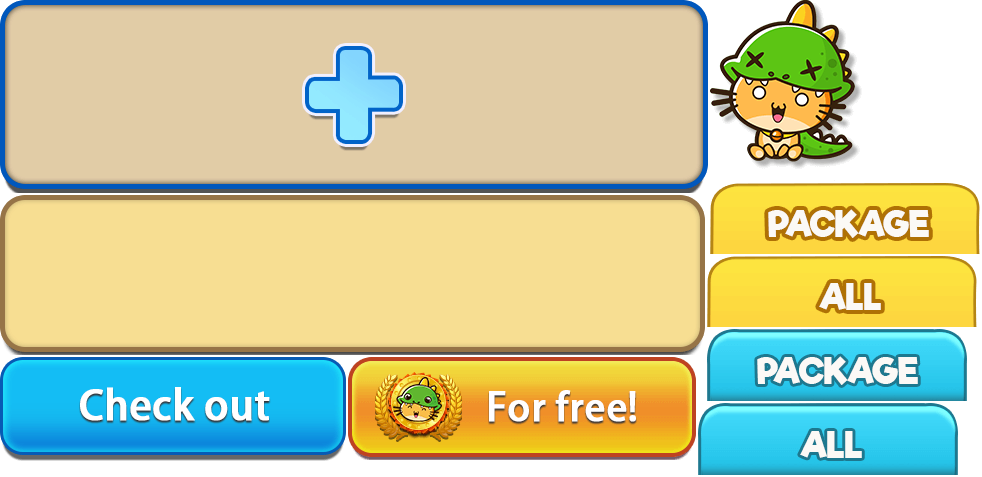
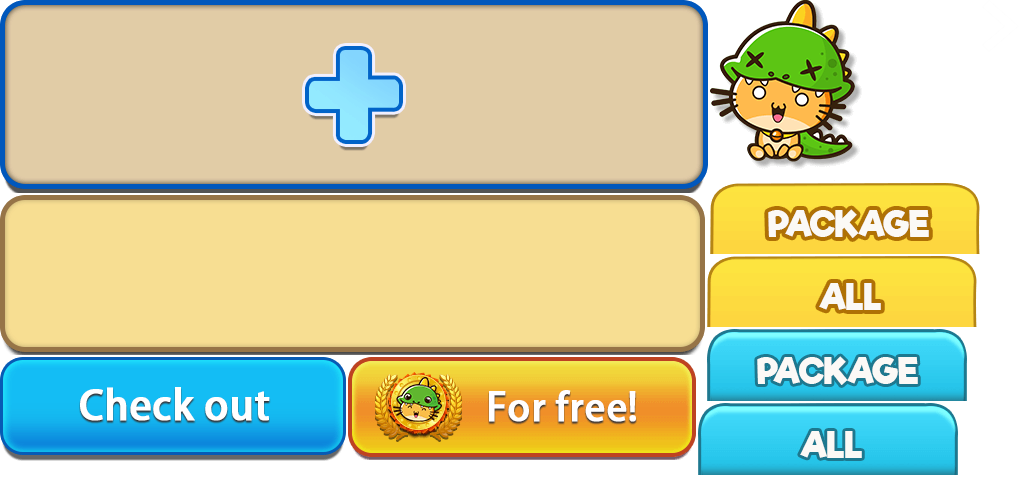
prize

diff --git a/src/pages/prize/prize.component.ts b/src/pages/prize/prize.component.ts
@@ -4,11 +4,11 @@
  * @Author: Wayne Yu
  * @Date: 2021-11-09 16:34:24
  * @LastEditors: Wayne Yu
- * @LastEditTime: 2021-11-09 17:28:57
+ * @LastEditTime: 2021-11-10 10:06:40
  */
 import { Component } from '@angular/core';
 import { BitmapData } from '../../basicUI/basic-ui.module';
-import { MainPage, Trigger, WebPages, Loading, GameHttp, GM } from '../../service/dinomao-game.module';
+import { MainPage, AddressData, UserAddress, Loading, GameHttp, GM, Trigger, WebPages } from '../../service/dinomao-game.module';
 
 @Component({
   selector: 'app-prize',
@@ -21,13 +21,17 @@ export class PrizeComponent extends MainPage {
 
   shocked!: BitmapData;
   addBtn!: BitmapData;
+  addressBtn!: BitmapData;
 
   allPrizeIcon!: BitmapData;
   allPrizeBtn!: BitmapData;
   packageIcon!: BitmapData;
   packageBtn!: BitmapData;
 
+  mainString: string = "";
+
   prizeList!: any[];
+  itemData!: AddressData;
 
   constructor() {
     super();
@@ -37,13 +41,23 @@ export class PrizeComponent extends MainPage {
   initUI() {
     Loading.status = 1;
 
-    this.allPrizeIcon = this.textureData.getTexture( "all-active", 50, 60 );
-    this.allPrizeBtn = this.textureData.getTexture( "all", 50, 60 );
-    this.packageIcon = this.textureData.getTexture( "package-active", 450, 60 );
-    this.packageBtn = this.textureData.getTexture( "package", 450, 60 );
+    this.addBtn = this.textureData.getTexture( "plus", 21, 415 );
+    this.addressBtn = this.textureData.getTexture( "bg_adress", 24, 240 );
+
+    this.allPrizeIcon = this.textureData.getTexture( "all-active", 95, 153 );
+    this.allPrizeBtn = this.textureData.getTexture( "all", 95, 151 );
+    this.packageIcon = this.textureData.getTexture( "package-active", 390, 153 );
+    this.packageBtn = this.textureData.getTexture( "package", 390, 151 );
 
     this.shocked = this.textureData.getTexture( "shocked", 300, 700 );
     new GameHttp().loadData( "cmd.php?action=shop&" + GM.interfaceString, this.getPrizeList.bind(this), "POST", "type=get_prize_list" );
+
+    this.itemData = UserAddress.instance.addressList[0];
+    this.mainString = this.itemData.addr + "," + this.itemData.city + "," + this.itemData.province + "," + this.itemData.country + "," + this.itemData.postal;
+  }
+
+  setData( data: any = null ){
+    if( data == "package" ) this.showPrize = false;
   }
 
   addOrder(){
@@ -55,6 +69,13 @@ export class PrizeComponent extends MainPage {
   }
 
   getPrizeList( data: any ){
+    console.log( data );
+    Loading.status = 2;
     this.prizeList = data.list;
+  }
+
+  editAddress(){
+    UserAddress.fromPage = WebPages.PRIZE;
+    Trigger.gotoPage( WebPages.ADDRESS );
   }
 }

diff --git a/src/pages/prize/prize.component.html b/src/pages/prize/prize.component.html
@@ -4,7 +4,7 @@
  * @Author: Wayne Yu
  * @Date: 2021-11-09 16:34:24
  * @LastEditors: Wayne Yu
- * @LastEditTime: 2021-11-09 17:22:16
+ * @LastEditTime: 2021-11-10 09:52:47
 -->
 <div class="stretchingBg widthApp" [style.height]="pageHeight + 'px'" [style.background-image]="'url(assets/loading_ui/loading_bg.jpg)'">
   <div class="prizeListContainer" [style.height]="pageHeight - 220 + 'px'"></div>
@@ -20,6 +20,11 @@
   <div *ngIf="!showPrize">
     <app-image-button [imgData]="allPrizeBtn" (itemClick)="switchPannel( true )"></app-image-button>
     <app-image [imgData]="packageIcon"></app-image>
+    <app-image-button [imgData]="addressBtn" (itemClick)="editAddress()"></app-image-button>
+    <div class="addressDiv noneSelect">
+      <div class="firstLine"><span class="spanBold">{{itemData.first_name}}&nbsp;&nbsp;{{itemData.last_name}}</span><span class="spanGray">{{itemData.tel}}</span></div>
+      <div class="allElse">{{mainString}}</div>
+    </div>
     <app-image-button [imgData]="addBtn" (itemClick)="addOrder()"></app-image-button>
   </div>
 </div>

diff --git a/src/pages/prize/prize.component.css b/src/pages/prize/prize.component.css
@@ -1,7 +1,7 @@
 .prizeListContainer{
     background-color: #fdd53f;
     left: 10px;
-    top: 286px;
+    top: 220px;
     width: 730px;
     -moz-border-radius: 28px;
     -webkit-border-radius: 28px;
@@ -15,4 +15,38 @@
     text-align: center;
     font-size: 45px;
     font-family: framd;
+}
+.firstLine{
+    left: 20px;
+    top: 15px;
+    width: 666px;
+    font-size: 30px;
+    color: black;
+    word-wrap:break-word;
+}
+.spanBold{
+    font-weight: bold;
+}
+.spanGray{
+    color: gray;
+    padding-left: 30px;
+}
+.allElse{
+    left: 20px;
+    top: 65px;
+    width: 666px;
+    height: 168px;
+    font-size: 30px;
+    color: black;
+    word-wrap:break-word;
+    overflow: hidden;
+    text-overflow: ellipsis;
+    display: -webkit-box;
+    -webkit-line-clamp: 4;
+    -webkit-box-orient: vertical;
+}
+.addressDiv{
+    left: 30px;
+    top: 245px;
+    width: 730px;
 }

diff --git a/src/pages/my/user-center/user-center-scroll-list/user-center-scroll-list.component.ts b/src/pages/my/user-center/user-center-scroll-list/user-center-scroll-list.component.ts
@@ -4,11 +4,11 @@
  * @Author: Wayne Yu
  * @Date: 2021-09-14 11:49:12
  * @LastEditors: Wayne Yu
- * @LastEditTime: 2021-11-09 13:47:52
+ * @LastEditTime: 2021-11-10 10:00:19
  */
 import { Component } from '@angular/core';
 import { Application, ScrollList } from '../../../../basicUI/basic-ui.module';
-import { UserCenterItemTypes, Trigger, WebPages } from '../../../../service/dinomao-game.module';
+import { UserCenterItemTypes, Trigger, WebPages, UserAddress } from '../../../../service/dinomao-game.module';
 
 @Component({
   selector: 'app-user-center-scroll-list',
@@ -66,6 +66,7 @@ export class UserCenterScrollListComponent extends ScrollList {
         Trigger.gotoPage( WebPages.LEDGER );
         break;
       case UserCenterItemTypes.ADDRESS:
+        UserAddress.fromPage = WebPages.USER_CENTER;
         Trigger.gotoPage( WebPages.ADDRESS );
         break;
       default:

diff --git a/src/siene/dynamic-layer/dynamic-layer.component.ts b/src/siene/dynamic-layer/dynamic-layer.component.ts
@@ -4,7 +4,7 @@
 * @Author: Wayne Yu
 * @Date: 2021-05-21 11:30:50
  * @LastEditors: Wayne Yu
- * @LastEditTime: 2021-11-09 17:33:27
+ * @LastEditTime: 2021-11-09 17:35:40
 */
 import { HttpClient } from '@angular/common/http';
 import { PageDirective } from './page.directive';
@@ -99,7 +99,7 @@ export class DynamicLayerComponent implements OnInit, OnChanges{
         break;
       case WebPages.ORDER: componentFactory = this.componentFactoryResolver.resolveComponentFactory(OrderForGoodsComponent);
         break;
-      case WebPages.ORDER: componentFactory = this.componentFactoryResolver.resolveComponentFactory(PrizeComponent);
+      case WebPages.PRIZE: componentFactory = this.componentFactoryResolver.resolveComponentFactory(PrizeComponent);
         break;
       default:
         alert( "page name error" );

diff --git a/src/service/user/UserAddress.ts b/src/service/user/UserAddress.ts
@@ -5,7 +5,7 @@ import { AddressData } from '../gameData/address-data';
  * @Author: Wayne Yu
  * @Date: 2021-11-02 13:24:33
  * @LastEditors: Wayne Yu
- * @LastEditTime: 2021-11-04 09:33:09
+ * @LastEditTime: 2021-11-10 09:59:27
  */
 export class UserAddress {
 
@@ -13,6 +13,8 @@ export class UserAddress {
 
     public static instance: UserAddress;
     public static addressChangeCallback: Function | null;
+
+    public static fromPage: string;
 
     public static getData( addressList: AddressData[] ){
         this.instance = new UserAddress( addressList );

diff --git a/src/pages/my/address/address.component.ts b/src/pages/my/address/address.component.ts
@@ -4,7 +4,7 @@
  * @Author: Wayne Yu
  * @Date: 2021-11-01 17:32:02
  * @LastEditors: Wayne Yu
- * @LastEditTime: 2021-11-08 15:15:42
+ * @LastEditTime: 2021-11-10 10:07:10
  */
 import { Component } from '@angular/core';
 import { BitmapData } from '../../../basicUI/basic-ui.module';
@@ -45,6 +45,6 @@ export class AddressComponent extends MainPage {
   }
 
   gotoBack(){
-    Trigger.gotoPage( WebPages.USER_CENTER );
+    Trigger.gotoPage( UserAddress.fromPage, "package" );
   }
 }
